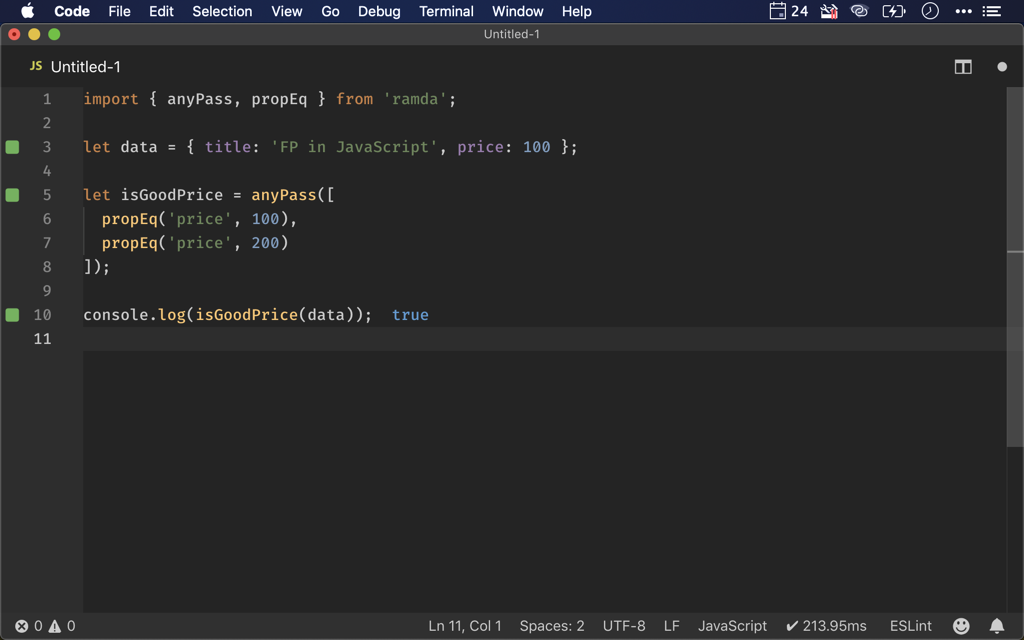
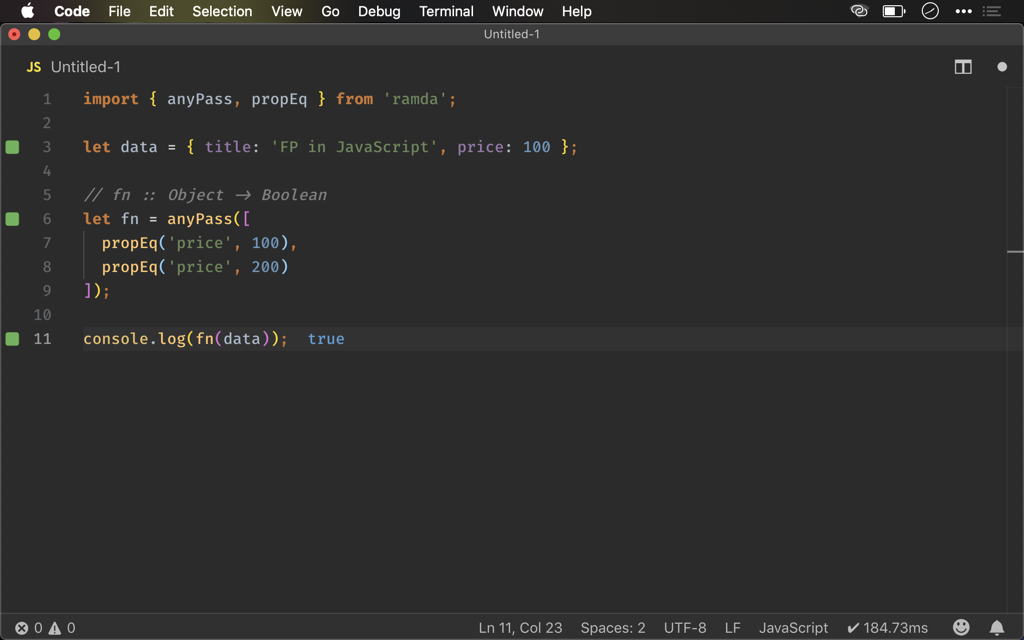
Ramda 之 anyPass()

diff --git a/source/_posts/ramda/anypass.md b/source/_posts/ramda/anypass.md
@@ -5,7 +5,7 @@ tags:
   - Ramda/any
   - Ramda/propEq
 feature: images/feature/ramda.png
-date: 2019-04-11 10:23:43
+date: 2019-05-15 12:23:43
 ---
 Ramda 有 `any()` 並不令人訝異，ECMAScript 也有 `some()`，但 Ramda 又另外提供了 `anyPass()`，這與 `any()` 有什麼不同呢 ?
 
@@ -24,12 +24,13 @@ import { anyPass, propEq } from 'ramda';
 
 let data = { title: 'FP in JavaScript', price: 100 };
 
-let isGoodPrice = anyPass([
+// fn :: Object -> Boolean
+let fn = anyPass([
   propEq('price', 100),
   propEq('price', 200)
 ]);
 
-console.log(isGoodPrice(data));
+console.log(fn(data));
 ```
 
 若只要 `price` 為 `100` 或 `200`，我們都認為是合理的價錢。
@@ -57,12 +58,13 @@ let data = [
   { title: 'Speaking JavaScript', price: 300 }
 ];
 
-let isGoodPrice = anyPass([
+// fn :: [Object] -> Boolean
+let fn = any(anyPass([
   propEq('price', 100),
   propEq('price', 200)
-]);
+]));
 
-console.log(any(isGoodPrice)(data));
+console.log(fn(data));
 ```
 > Q：`any()` 與 `anyPass()` 的差別在哪 ?
 
